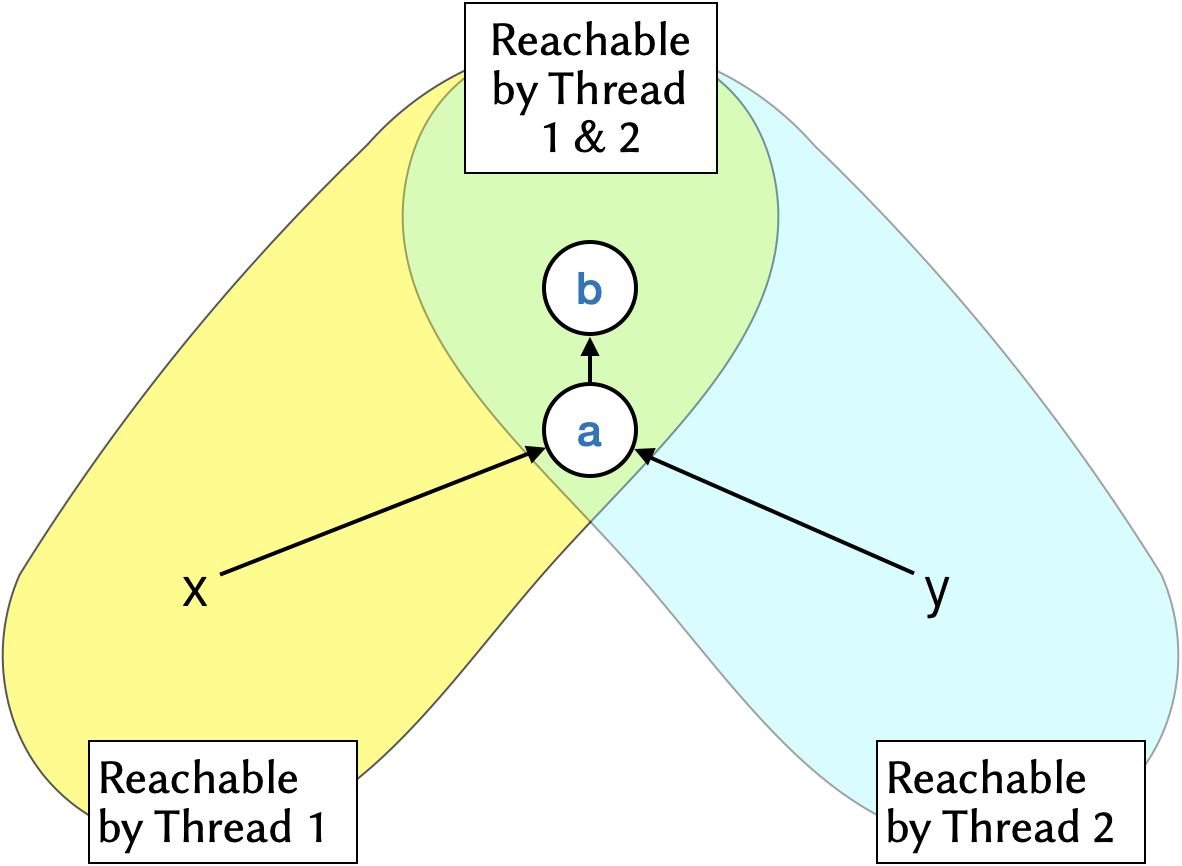
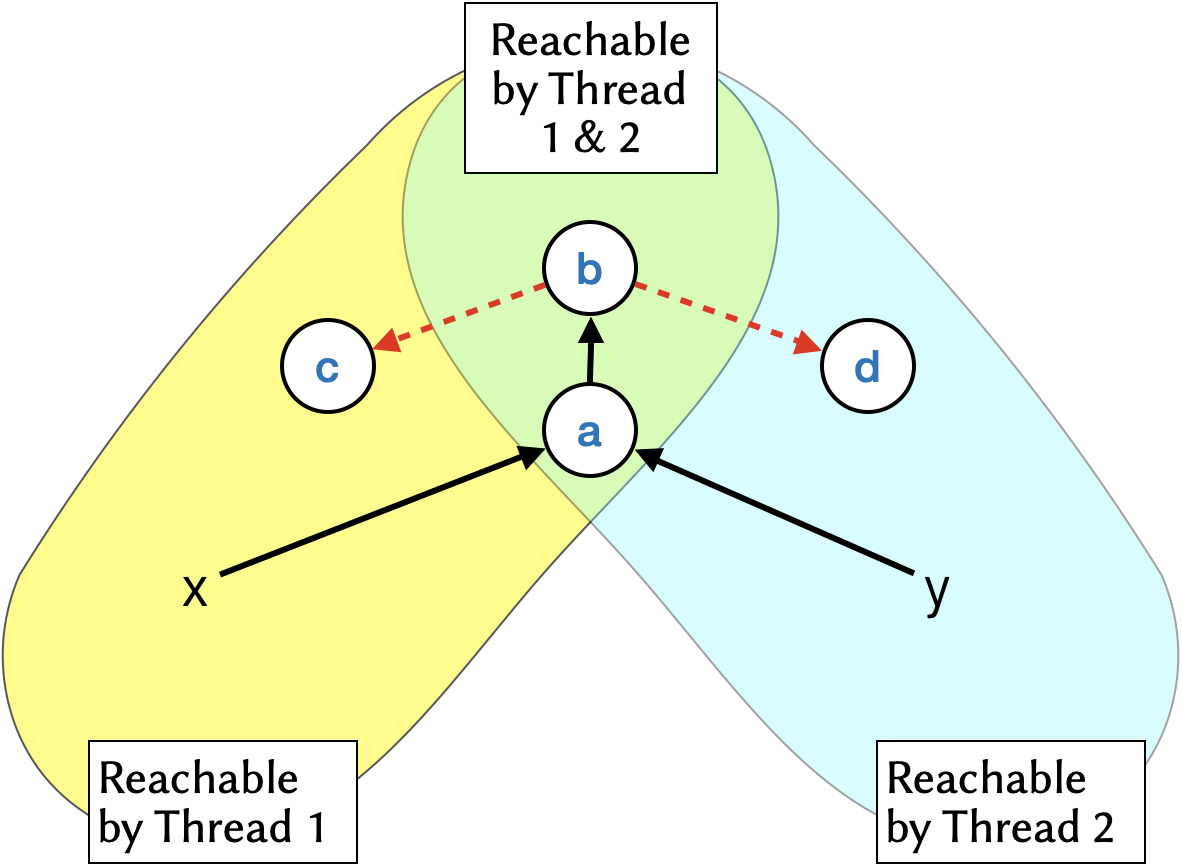
First finished draft

diff --git a/pep-9999.rst b/pep-9999.rst
@@ -104,8 +104,12 @@ frozen, the deletion would have caused an error.
 
 The following image illustrates that as soon as an object *a*
 is reachable by two threads, then all other objects that
-*a* can reach are also reachable by both threads. In the code example above,
-``pair`` is *a* and ``list`` is *b*.
+*a* can reach are also reachable by both threads. The dashed
+red references to *c* and *d* are not possible because then
+*c* and *d* would not be in areas where only a single thread
+could reach them.
+
+To map the code example above to the figure -- ``pair`` is *a* and ``list`` is *b*.
 
 .. image:: pep-9999/sharing1.png
    :width: 50%
